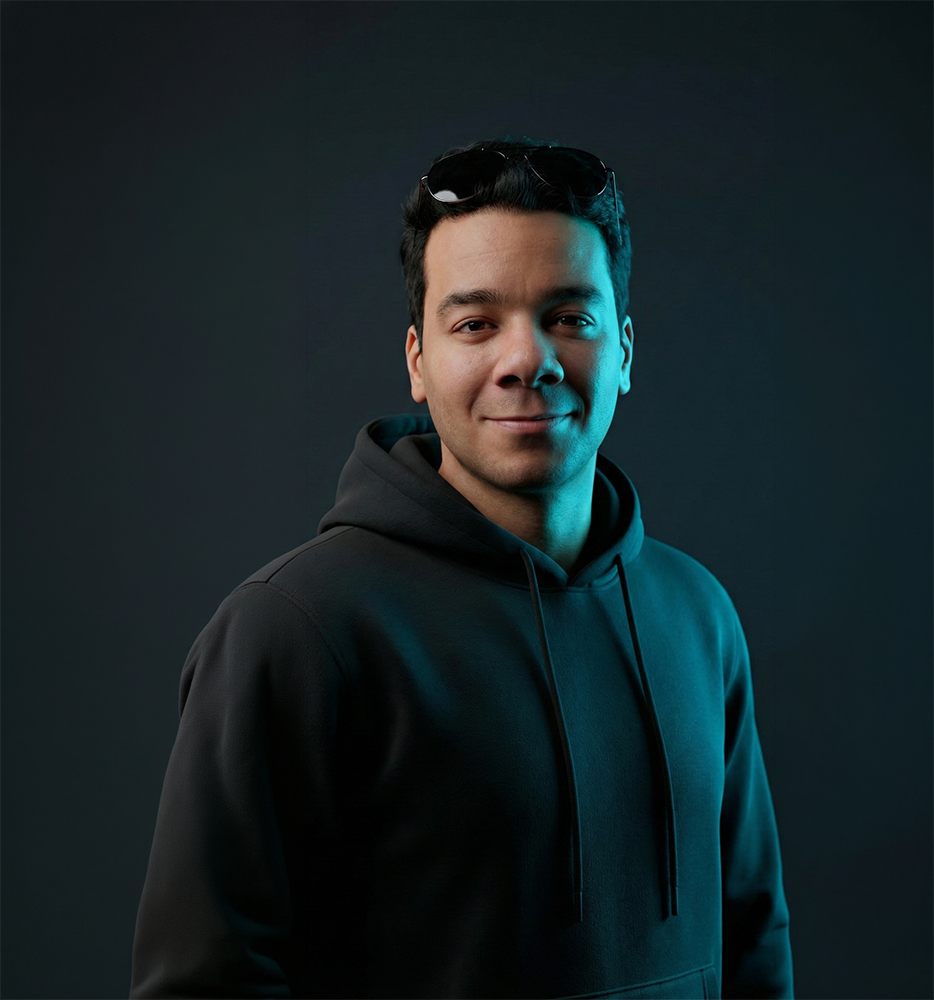
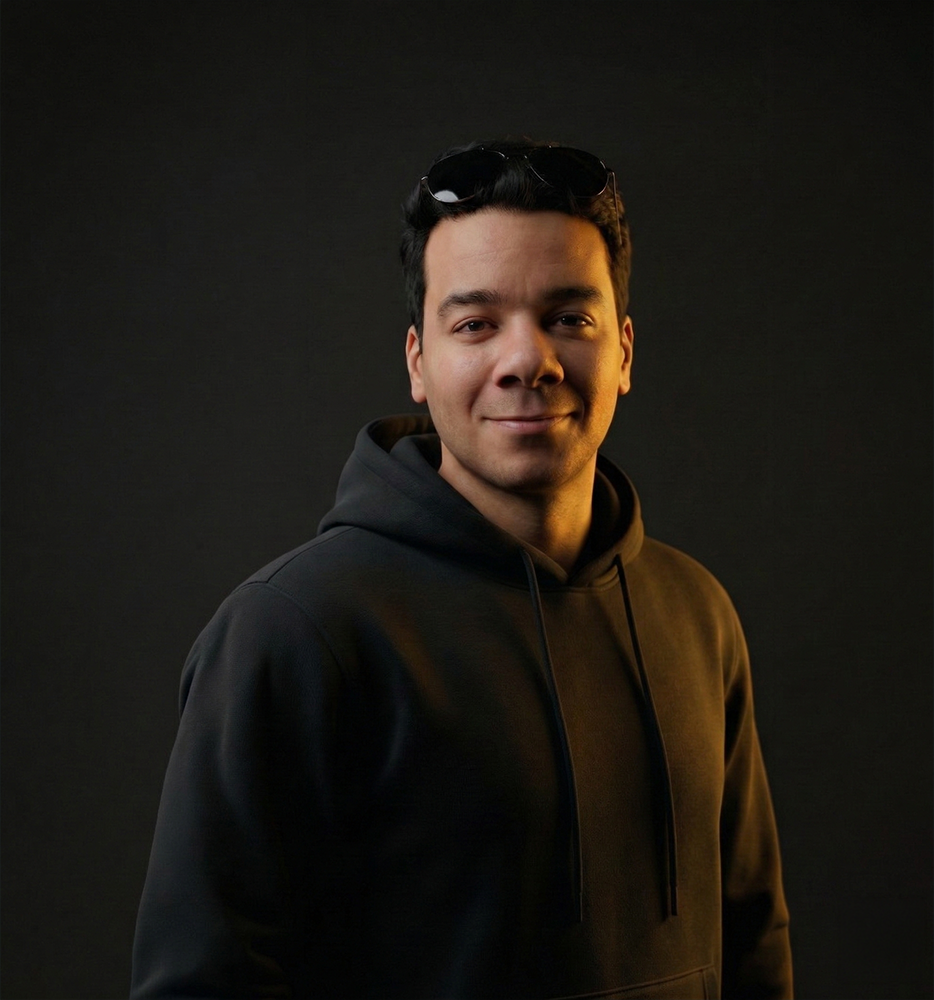
feat: complete portfolio design overhaul and content updates

diff --git a/src/components/EducationSection.tsx b/src/components/EducationSection.tsx
@@ -1,5 +1,5 @@
 import { motion } from "framer-motion";
-import { GraduationCap, Shield } from "lucide-react";
+import { GraduationCap, Shield, ChevronRight } from "lucide-react";
 
 const fadeUp = {
     hidden: { opacity: 0, y: 30 },
@@ -10,32 +10,45 @@ const fadeUp = {
     }),
 };
 
-const EducationSection = () => {
-    const educationData = [
-        {
-            title: "Vulnerability Assessment & Penetration Testing Trainee",
-            subtitle: "Digital Egypt Pioneers Initiative (DEPI) - MCIT",
-            date: "Dec 2025 – Present",
-            icon: <Shield className="text-primary" size={24} />,
-        },
-        {
-            title: "Bachelor's Degree, Biomedical Engineering",
-            subtitle: "Capital (Helwan) University",
-            date: "Oct 2021 – Present",
-            icon: <GraduationCap className="text-primary" size={24} />,
-        }
-    ];
+const educationData = [
+    {
+        title: "Vulnerability Assessment & Penetration Testing Trainee",
+        subtitle: "Digital Egypt Pioneers Initiative (DEPI) — Ministry of Communications & Information Technology",
+        date: "Dec 2025 – Present",
+        icon: <Shield className="text-primary" size={22} />,
+        bullets: [
+            "Conducting hands-on vulnerability assessments within structured security frameworks.",
+            "Performing reconnaissance, scanning, and ethical hacking lifecycles across web and network environments.",
+            "Producing formal penetration testing reports with actionable remediation strategies.",
+            "Simulating real-world security testing workflows through collaborative capstone projects.",
+        ],
+    },
+    {
+        title: "Bachelor's Degree, Biomedical Engineering",
+        subtitle: "Helwan University — Faculty of Engineering",
+        date: "Oct 2021 – Present",
+        icon: <GraduationCap className="text-primary" size={22} />,
+        bullets: [
+            "Building foundations in software engineering, embedded electronics, and database systems.",
+            "Applying machine learning and control systems theory to biomedical data.",
+            "Studying human anatomy alongside solid/fluid mechanics and stress analysis.",
+            "Delivered and designed multiple high-level technical presentations to engineering peers and faculty.",
+        ],
+        footer: "Grade: 80%"
+    },
+];
 
+const EducationSection = () => {
     return (
         <section id="education" className="min-h-screen flex flex-col justify-center section-padding border-b border-border">
-            <div className="max-w-5xl mx-auto">
+            <div className="max-w-5xl mx-auto w-full">
                 <motion.h2
                     initial={{ opacity: 0, y: 20 }}
                     whileInView={{ opacity: 1, y: 0 }}
                     viewport={{ once: true }}
                     className="text-3xl sm:text-4xl lg:text-4xl font-bold mb-16 md:mb-20 text-center"
                 >
-                    Education & <span className="glow-text">Training</span>
+                    <span className="glow-text">Education</span>
                 </motion.h2>
 
                 <motion.div
@@ -46,10 +59,8 @@ const EducationSection = () => {
                         hidden: { opacity: 0 },
                         visible: {
                             opacity: 1,
-                            transition: {
-                                staggerChildren: 0.2
-                            }
-                        }
+                            transition: { staggerChildren: 0.2 },
+                        },
                     }}
                     className="max-w-4xl mx-auto pl-4 sm:pl-0"
                 >
@@ -58,6 +69,7 @@ const EducationSection = () => {
                             <motion.div
                                 key={index}
                                 variants={fadeUp}
+                                custom={index}
                                 className="relative mb-16 sm:mb-20 pl-8 sm:pl-12 last:mb-0"
                             >
                                 {/* Timeline node */}
@@ -66,20 +78,42 @@ const EducationSection = () => {
                                 </div>
 
                                 <div className="glass rounded-xl p-6 lg:p-8 glow-box hover:-translate-y-1 transition-transform duration-300">
-                                    <div className="flex flex-col md:flex-row md:items-start justify-between gap-6">
-                                        <div className="flex items-start gap-5">
-                                            <div className="p-4 rounded-lg bg-primary/10 border border-primary/20 shrink-0 mt-1">
+                                    {/* Header row */}
+                                    <div className="flex flex-col md:flex-row md:items-start justify-between gap-4 mb-6">
+                                        <div className="flex items-start gap-4">
+                                            <div className="p-3 rounded-lg bg-primary/10 border border-primary/20 shrink-0 mt-1">
                                                 {item.icon}
                                             </div>
                                             <div>
-                                                <h3 className="font-bold text-lg lg:text-xl leading-tight mb-2">{item.title}</h3>
+                                                <h3 className="font-bold text-lg lg:text-xl leading-tight mb-1">{item.title}</h3>
                                                 <p className="text-primary font-medium text-sm sm:text-base">{item.subtitle}</p>
                                             </div>
                                         </div>
-                                        <div className="shrink-0 flex items-center text-sm lg:text-base font-semibold text-muted-foreground bg-secondary/50 px-4 py-2 rounded-full border border-border mt-4 md:mt-0">
-                                            {item.date}
+                                        <div className="flex flex-wrap gap-2 shrink-0 md:mt-0">
+                                            <span className="flex items-center text-sm font-semibold text-muted-foreground bg-secondary/50 px-4 py-2 rounded-full border border-border">
+                                                {item.date}
+                                            </span>
                                         </div>
                                     </div>
+
+                                    {/* Bullet Points */}
+                                    <ul className="space-y-2.5">
+                                        {item.bullets.map((bullet, bIdx) => (
+                                            <li key={bIdx} className="flex items-start gap-3 text-sm lg:text-base text-muted-foreground leading-relaxed">
+                                                <ChevronRight size={16} className="text-primary shrink-0 mt-0.5" />
+                                                <span>{bullet}</span>
+                                            </li>
+                                        ))}
+                                    </ul>
+
+                                    {/* Footer */}
+                                    {item.footer && (
+                                        <div className="mt-6 pt-5 border-t border-primary/10 flex justify-end">
+                                            <span className="inline-flex items-center text-sm font-bold text-primary bg-primary/10 px-5 py-2 rounded-full border border-primary/20 shadow-[0_0_10px_rgba(var(--primary),0.1)]">
+                                                {item.footer}
+                                            </span>
+                                        </div>
+                                    )}
                                 </div>
                             </motion.div>
                         ))}

diff --git a/src/index.css b/src/index.css
@@ -8,83 +8,74 @@
   :root {
     --font-sans: 'Plus Jakarta Sans', system-ui, sans-serif;
 
-    /* Light mode: Ocean Blue / Slate base */
-    --background: 210 40% 98%;
-    /* slate-50 */
-    --foreground: 222 47% 11%;
-    /* slate-900 */
+    /* OPTION B - Deep Forest & Amber (Light) */
+    --background: 60 20% 96%;
+    --foreground: 150 20% 12%;
 
-    --card: 0 0% 100%;
-    --card-foreground: 222 47% 11%;
+    --card: 60 15% 99%;
+    --card-foreground: 150 20% 12%;
 
-    --popover: 0 0% 100%;
-    --popover-foreground: 222 47% 11%;
+    --popover: 60 15% 99%;
+    --popover-foreground: 150 20% 12%;
 
-    --primary: 201 96% 32%;
-    /* sky-700 (Ocean Blue) */
+    --primary: 38 88% 43%;
     --primary-foreground: 0 0% 100%;
 
-    --secondary: 214 32% 91%;
-    /* slate-200 */
-    --secondary-foreground: 222 47% 11%;
+    --secondary: 60 15% 88%;
+    --secondary-foreground: 150 20% 12%;
 
-    --muted: 210 40% 96%;
-    /* slate-100 */
-    --muted-foreground: 215 16% 47%;
-    /* slate-500 */
+    --muted: 60 12% 92%;
+    --muted-foreground: 150 8% 44%;
 
-    --accent: 201 96% 32%;
-    --accent-foreground: 0 0% 100%;
+    --accent: 38 90% 50%;
+    --accent-foreground: 150 20% 8%;
 
     --destructive: 0 84% 60%;
     --destructive-foreground: 0 0% 100%;
 
-    --border: 214 32% 91%;
-    /* slate-200 */
-    --input: 214 32% 91%;
-    /* slate-200 */
-    --ring: 201 96% 32%;
+    --border: 60 15% 84%;
+    --input: 60 15% 84%;
+    --ring: 38 90% 50%;
     --radius: 0.75rem;
 
-    --glass-bg: 210 40% 98% / 0.7;
-    /* matching slate-50 */
-    --glass-border: 214 32% 91% / 0.5;
-    --glow: 199 89% 48%;
-    /* sky-600 for brighter glow */
+    --glass-bg: 60 20% 96% / 0.75;
+    --glass-border: 60 10% 78% / 0.5;
+    --glow: 38 90% 55%;
   }
 
   .dark {
-    --background: 215 28% 10%;
-    --foreground: 210 20% 92%;
+    /* OPTION A/B Hybrid - Slate Charcoal & Amber (Dark) */
+    --background: 220 10% 9%;
+    --foreground: 220 10% 92%;
 
-    --card: 215 25% 14%;
-    --card-foreground: 210 20% 92%;
+    --card: 220 10% 12%;
+    --card-foreground: 220 10% 92%;
 
-    --popover: 215 25% 14%;
-    --popover-foreground: 210 20% 92%;
+    --popover: 220 10% 12%;
+    --popover-foreground: 220 10% 92%;
 
-    --primary: 187 80% 55%;
-    --primary-foreground: 215 28% 10%;
+    --primary: 38 95% 58%;
+    --primary-foreground: 220 10% 9%;
 
-    --secondary: 215 20% 18%;
-    --secondary-foreground: 210 20% 92%;
+    --secondary: 220 10% 15%;
+    --secondary-foreground: 220 10% 92%;
 
-    --muted: 215 20% 18%;
-    --muted-foreground: 215 15% 55%;
+    --muted: 220 10% 15%;
+    --muted-foreground: 220 10% 55%;
 
-    --accent: 187 80% 55%;
-    --accent-foreground: 215 28% 10%;
+    --accent: 38 95% 58%;
+    --accent-foreground: 220 10% 9%;
 
     --destructive: 0 62% 30%;
-    --destructive-foreground: 210 20% 92%;
+    --destructive-foreground: 220 10% 92%;
 
-    --border: 215 20% 22%;
-    --input: 215 20% 22%;
-    --ring: 187 80% 55%;
+    --border: 220 10% 20%;
+    --input: 220 10% 20%;
+    --ring: 38 95% 58%;
 
-    --glass-bg: 215 25% 14% / 0.6;
-    --glass-border: 215 20% 30% / 0.4;
-    --glow: 187 80% 55%;
+    --glass-bg: 220 10% 13% / 0.65;
+    --glass-border: 220 10% 28% / 0.4;
+    --glow: 38 95% 60%;
   }
 }
 
@@ -102,6 +93,31 @@
   body {
     @apply bg-background text-foreground font-sans antialiased;
     font-family: var(--font-sans);
+  }
+
+  /* Custom Selection Color */
+  ::selection {
+    background-color: hsl(var(--primary));
+    color: hsl(var(--primary-foreground));
+  }
+
+  /* Custom Scrollbar */
+  ::-webkit-scrollbar {
+    width: 10px;
+  }
+
+  ::-webkit-scrollbar-track {
+    background: hsl(var(--background));
+    border-left: 1px solid hsl(var(--border));
+  }
+
+  ::-webkit-scrollbar-thumb {
+    background: hsl(var(--primary) / 0.8);
+    border-radius: 5px;
+  }
+
+  ::-webkit-scrollbar-thumb:hover {
+    background: hsl(var(--primary) / 1);
   }
 }
 

diff --git a/src/components/ContactSection.tsx b/src/components/ContactSection.tsx
@@ -1,7 +1,7 @@
 import { useState } from "react";
 import { motion } from "framer-motion";
 import { Mail, Send, User, MessageSquare, CheckCircle2 } from "lucide-react";
-import { SiGithub, SiLinkedin, SiBehance } from "react-icons/si";
+import { SiGithub, SiLinkedin, SiBehance, SiUpwork } from "react-icons/si";
 import mostaqlIcon from "@/assets/mostaql.png";
 import khamsatIcon from "@/assets/khamsat.svg";
 
@@ -202,6 +202,16 @@ const ContactSection = () => {
                                 >
                                     <SiBehance className="w-8 h-8 group-hover:scale-110 transition-transform" />
                                     <span className="text-xs font-semibold">Behance</span>
+                                </a>
+                                <a
+                                    href="https://www.upwork.com/freelancers/~01139ba7937a9c22cc"
+                                    target="_blank"
+                                    rel="noopener noreferrer"
+                                    className="flex flex-col items-center justify-center gap-3 p-4 rounded-xl bg-secondary/50 hover:bg-primary/20 hover:text-primary transition-all group"
+                                    aria-label="Upwork"
+                                >
+                                    <SiUpwork className="w-8 h-8 group-hover:scale-110 transition-transform" />
+                                    <span className="text-xs font-semibold">Upwork</span>
                                 </a>
                                 <a
                                     href="https://mostaql.com/u/mohamedasem318"

diff --git a/src/components/ProjectsSection.tsx b/src/components/ProjectsSection.tsx
@@ -44,9 +44,9 @@ interface Project {
 }
 
 const categoryStyles: Record<ProjectCategory, string> = {
-  "Web App": "bg-blue-500/15 text-blue-400 border-blue-500/30",
-  "Desktop App": "bg-amber-500/15 text-amber-400 border-amber-500/30",
-  "Presentation": "bg-violet-500/15 text-violet-400 border-violet-500/30",
+  "Web App": "bg-sky-500/15 text-sky-600 dark:text-sky-400 border-sky-500/30",
+  "Desktop App": "bg-emerald-500/15 text-emerald-600 dark:text-emerald-400 border-emerald-500/30",
+  "Presentation": "bg-rose-500/15 text-rose-600 dark:text-rose-400 border-rose-500/30",
 };
 
 const projects: Project[] = [
@@ -74,6 +74,7 @@ const projects: Project[] = [
       "https://www.behance.net/gallery/244723563/CerebroScan-AI-Powered-Alzheimers-Detection-Web-App",
     liveUrl: "https://cerebroscan-app.hf.space/",
     tags: [
+      { label: "React", Icon: SiReact },
       { label: "Python", Icon: SiPython },
       { label: "Flask", Icon: SiFlask },
       { label: "Deep Learning", Icon: BrainCircuit },

diff --git a/src/components/AboutSection.tsx b/src/components/AboutSection.tsx
@@ -39,7 +39,7 @@ const AboutSection = () => {
             className="flex justify-center lg:justify-start"
           >
             <div className="animate-float">
-              <div className="relative w-full max-w-md aspect-[4/5] rounded-2xl overflow-hidden border border-primary/30 shadow-[0_0_30px_hsl(var(--primary)/0.25)] dark:border-cyan-500/30 dark:shadow-[0_0_30px_rgba(6,182,212,0.25)] glow-box">
+              <div className="relative w-full max-w-md aspect-[4/5] rounded-2xl overflow-hidden border border-primary/30 shadow-[0_0_30px_hsl(var(--primary)/0.25)] glow-box">
                 <img
                   src={aboutMeImg}
                   alt="Mohamed Assem - Portrait"

diff --git a/src/components/SkillsSection.tsx b/src/components/SkillsSection.tsx
@@ -42,7 +42,7 @@ const categories = [
     skills: [
       { name: "Adobe Photoshop", icon: SiAdobephotoshop },
       { name: "Adobe Illustrator", icon: SiAdobeillustrator },
-      { name: "PowerPoint Design", icon: PiMicrosoftPowerpointLogo },
+      { name: "Microsoft PowerPoint", icon: PiMicrosoftPowerpointLogo },
     ],
   },
 ];
